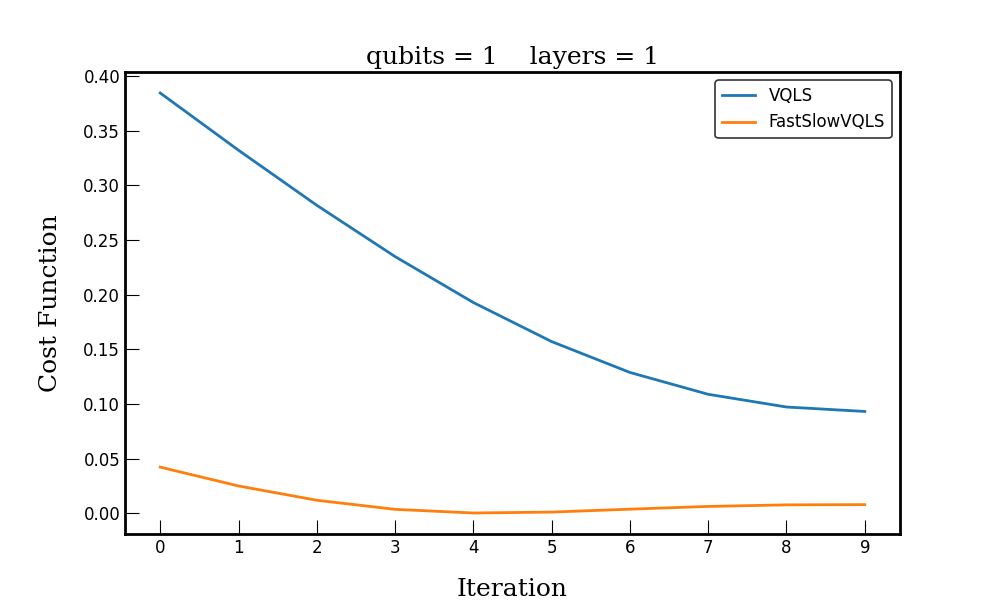
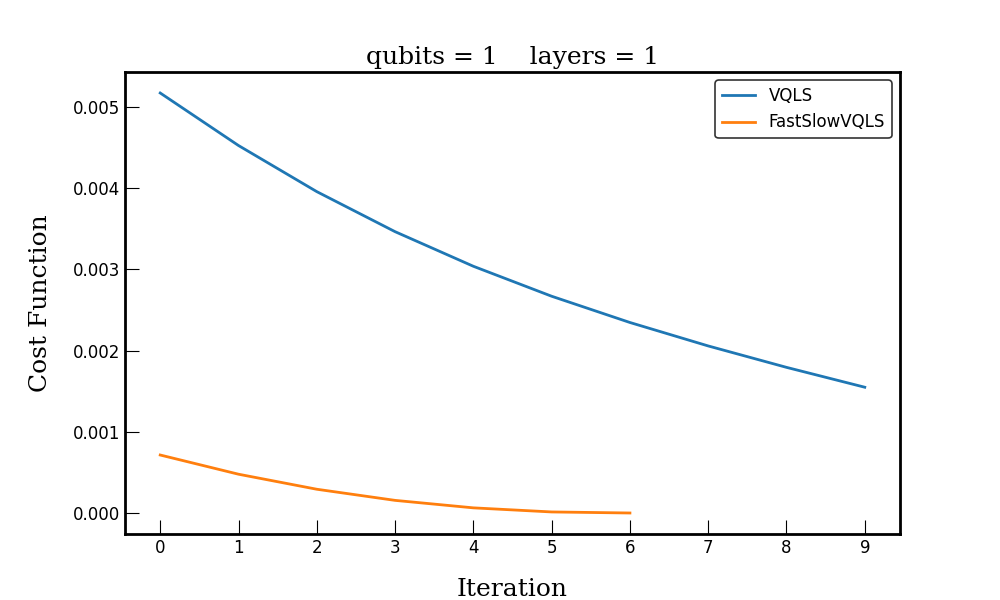
modified vqls and fastslowvqls

diff --git a/src/solver/quantum/vqls/vqls.py b/src/solver/quantum/vqls/vqls.py
@@ -24,6 +24,8 @@ class VQLS(Solver):
         self.stateprep = None
         self.ansatz = None
         self.backend = None
+        self.loss = None
+        self.wopt = None
 
     def solve(self):
 
@@ -34,12 +36,42 @@ class VQLS(Solver):
                                    epochs=self.epochs,
                                    tol=self.tol)
 
+        self.loss = loss_hist
+        self.wopt = wopt
+
         @qml.qnode(qml.device("default.qubit", wires=self.nqubits))
         def prepare_and_sample(weights):
             self.V(weights)
             return qml.state()
 
-        self.x = prepare_and_sample(wopt)
+        self.x = prepare_and_sample(self.wopt)
+
+        return self.x
+
+    def setup(self, optimizer=None, ansatz=None, stateprep=None, backend=None, epochs=100, tol=1e-4):
+
+        self.epochs = epochs
+        self.tol = tol
+
+        if optimizer is None:
+            self.optimizer = GradientDescentQML()
+        else:
+            self.optimizer = optimizer
+
+        if ansatz is None:
+            self.ansatz = StrongEntangling(nqubits=self.nqubits, nlayers=1)
+        else:
+            self.ansatz = ansatz
+
+        if stateprep is None:
+            self.stateprep = AmplitudeEmbedding(wires=range(self.nqubits))
+        else:
+            self.stateprep = stateprep
+
+        if backend is None:
+            self.backend = DefaultQubit(wires=self.nqubits + 1)
+        else:
+            self.backend = backend
 
     def set_lse(self, A, b):
         self.A = A
@@ -68,34 +100,11 @@ class VQLS(Solver):
 
         """
 
-        self.epochs = epochs
-        self.tol = tol
-
-        if optimizer is None:
-            self.optimizer = GradientDescentQML()
-        else:
-            self.optimizer = optimizer
-
-        if ansatz is None:
-            self.ansatz = StrongEntangling(nqubits=self.nqubits, nlayers=1)
-        else:
-            self.ansatz = ansatz
-
-        if stateprep is None:
-            self.stateprep = AmplitudeEmbedding(wires=range(self.nqubits))
-        else:
-            self.stateprep = stateprep
-
-        if backend is None:
-            self.backend = DefaultQubit(wires=self.nqubits + 1)
-        else:
-            self.backend = backend
-
         # initial weights
         w = self.ansatz.init_weights()
 
         # local optimization
-        w, cost_vals, iters = self.optimizer.optimize(func=self.cost, w=w, epochs=epochs, tol=tol)
+        w, cost_vals, iters = self.optimizer.optimize(func=self.cost, w=w, epochs=self.epochs, tol=self.tol)
 
         return w, cost_vals
 

diff --git a/src/solver/quantum/vqls/vqls_fast_and_slow.py b/src/solver/quantum/vqls/vqls_fast_and_slow.py
@@ -9,24 +9,13 @@ from src.solver.quantum.vqls.vqls import VQLS
 class FastSlowVQLS(VQLS):
     def __init__(self):
         super().__init__()
+        self.epochs_bo = None
 
-    def opt(self, optimizer=None, ansatz=None, stateprep=None, backend=None, epochs=100, epochs_bo=None, tol=1e-4):
-        """
+    def setup(self, optimizer=None, ansatz=None, stateprep=None, backend=None, epochs=100, epochs_bo=None, tol=1e-4):
 
-        Parameters
-        ----------
-        optimizer
-        ansatz
-        stateprep
-        backend
-        epochs
-        epochs_bo
-        tol
-
-        Returns
-        -------
-
-        """
+        self.epochs = epochs
+        self.epochs_bo = epochs_bo
+        self.tol = tol
 
         if optimizer is None:
             self.optimizer = GradientDescentQML()
@@ -48,15 +37,33 @@ class FastSlowVQLS(VQLS):
         else:
             self.backend = backend
 
+    def opt(self, optimizer=None, ansatz=None, stateprep=None, backend=None, epochs=100, epochs_bo=None, tol=1e-4):
+        """
+
+        Parameters
+        ----------
+        optimizer
+        ansatz
+        stateprep
+        backend
+        epochs
+        epochs_bo
+        tol
+
+        Returns
+        -------
+
+        """
+
         # initial weights
         w = self.ansatz.init_weights()
 
         # global optimization
-        if epochs_bo is not None:
-            w, _ = self.bayesopt_init(epochs_bo=epochs_bo)
+        if self.epochs_bo is not None:
+            w, _ = self.bayesopt_init(epochs_bo=self.epochs_bo)
 
         # local optimization
-        w, cost_vals, iters = self.optimizer.optimize(func=self.cost, w=w, epochs=epochs, tol=tol)
+        w, cost_vals, iters = self.optimizer.optimize(func=self.cost, w=w, epochs=self.epochs, tol=self.tol)
 
         return w, cost_vals
 

diff --git a/examples/example_vqls_variations.py b/examples/example_vqls_variations.py
@@ -32,12 +32,13 @@ ansatz_ = StrongEntangling(nqubits=nqubits, nlayers=nlayers)
 prep_ = MottonenStatePrep(wires=range(nqubits))
 backend_ = DefaultQubit(wires=nqubits + 1)
 
-wopt1, loss1 = solver1.opt(optimizer=optim_, ansatz=ansatz_, stateprep=prep_, backend=backend_, epochs=maxiter,
-                           tol=1e-6)
-wopt2, loss2 = solver2.opt(optimizer=optim_, ansatz=ansatz_, stateprep=prep_, backend=backend_, epochs=maxiter,
-                           epochs_bo=10, tol=1e-6)
+solver1.setup(optimizer=optim_, ansatz=ansatz_, stateprep=prep_, backend=backend_, epochs=maxiter, tol=1e-5)
+solver2.setup(optimizer=optim_, ansatz=ansatz_, stateprep=prep_, backend=backend_, epochs=maxiter, epochs_bo=10, tol=1e-5)
 
-losses = {"VQLS": loss1, "FastSlowVQLS": loss2}
+xopt1 = solver1.solve()
+xopt2 = solver2.solve()
+
+losses = {"VQLS": solver1.loss, "FastSlowVQLS": solver2.loss}
 
 title = "qubits = {:d}    layers = {:d}".format(nqubits, nlayers)
 plot_costs(data=losses, save_png=True, title=title, fname="test")
